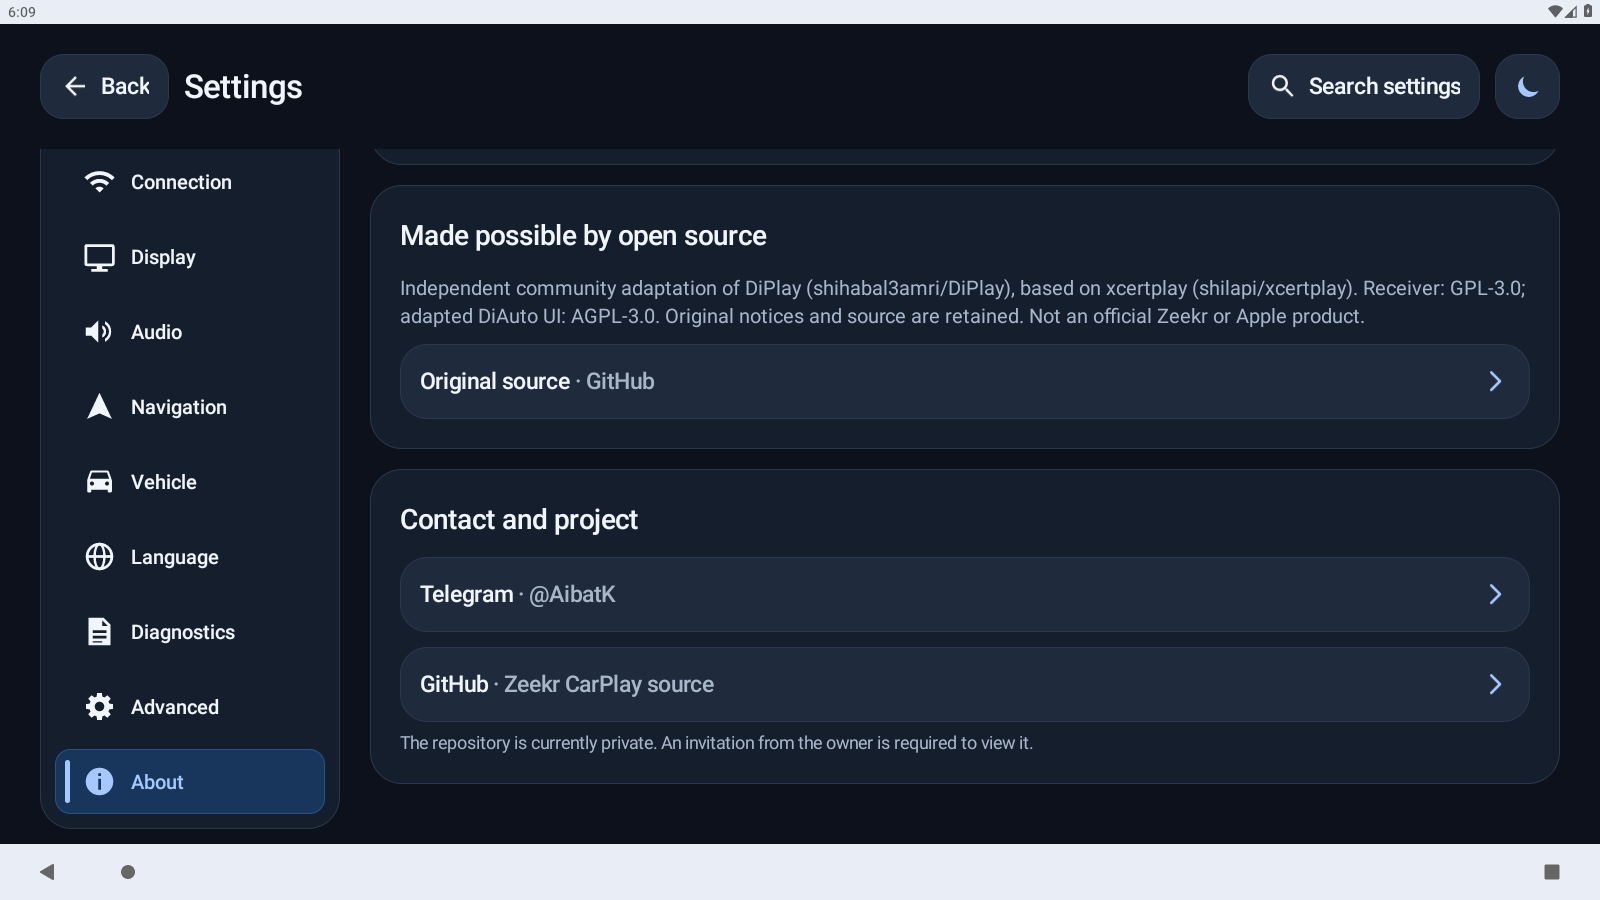
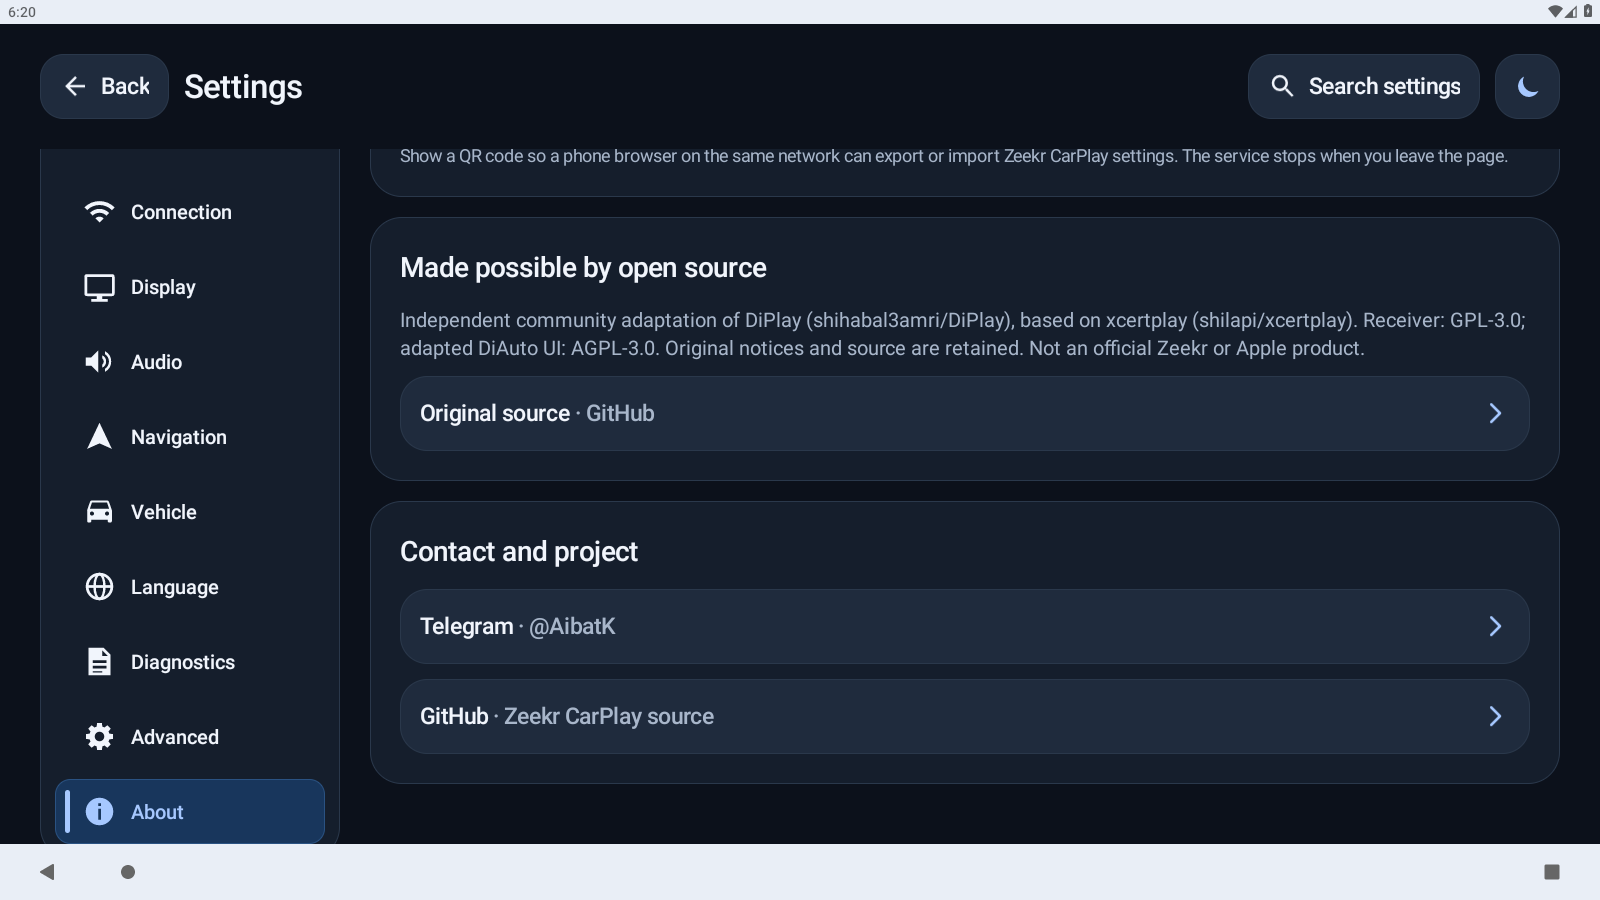
Remove repository access hint and clarify independent community development

diff --git a/common/src/main/java/com/shilapi/xcertplay/DiPlayActivity.kt b/common/src/main/java/com/shilapi/xcertplay/DiPlayActivity.kt
@@ -2548,7 +2548,6 @@ class DiPlayActivity : ComponentActivity(), AppAppearanceOwner {
             card.addView(button(getString(R.string.zkr_project_github), false) {
                 openSystem(Intent(Intent.ACTION_VIEW, Uri.parse("https://github.com/KrykByte/zeekr-carplay")))
             }, matchButton(12, 60))
-            card.addView(label(getString(R.string.zkr_project_github_hint), 14, MUTED))
         }
     }
 

diff --git a/README.md b/README.md
@@ -2,7 +2,7 @@
 
 **Русский** · [English](README.en.md)
 
-CarPlay для Android-магнитолы Zeekr. Актуальная версия — **Final Alpha 03**, пакет `com.openzeekr.carplay`.
+CarPlay для Android-магнитолы Zeekr. Проект с открытым исходным кодом. Актуальная версия — **Final Alpha 03**, пакет `com.openzeekr.carplay`.
 
 ## Скачать и установить
 
@@ -13,7 +13,7 @@ CarPlay для Android-магнитолы Zeekr. Актуальная верси
 3. Выберите русский или английский язык и пройдите мастер настройки.
 4. Для проверенного автомобиля выберите **беспроводное подключение → Wi-Fi Direct**, затем **звук через Bluetooth автомобиля**. Оставьте iPhone сопряжённым со штатным Bluetooth и выберите Bluetooth-музыку в автомобиле.
 
-Для установки достаточно APK: отдельно импортировать сертификаты и ключи не нужно. Репозиторий пока приватный — скачивание доступно владельцу и приглашённым пользователям после входа в GitHub.
+Для установки достаточно APK: отдельно импортировать сертификаты и ключи не нужно.
 
 ## Совместимость
 
@@ -21,7 +21,9 @@ CarPlay для Android-магнитолы Zeekr. Актуальная верси
 
 **На других моделях, годах выпуска и прошивках работа неизвестна.** Звонки, Siri и навигационные подсказки требуют отдельной проверки. Каждая новая сборка/конфигурация также требует проверки на автомобиле.
 
-Кому интересно — изучайте исходники, тестируйте и предлагайте улучшения. В Issues указывайте модель/год автомобиля, прошивку/Android, iPhone/iOS, режим подключения и звука. Удаляйте личные данные из логов перед отправкой. Пока проект приватный, для участия требуется приглашение.
+Вы можете скачивать APK и исходники, изучать код, изменять приложение и развивать собственные версии с соблюдением лицензий компонентов. Проверку совместимости с другими автомобилями и доработки участники выполняют самостоятельно.
+
+**Автор не может проверять приложение на других автомобилях и не предоставляет индивидуальную поддержку. Пожалуйста, не присылайте автору логи, сборки или запросы на проверку других машин.**
 
 ## Системные панели и полноэкранный режим
 
@@ -54,7 +56,7 @@ CarPlay для Android-магнитолы Zeekr. Актуальная верси
 
 Документация: [сборка](docs/BUILD.md), [Zeekr CarPlay](docs/ZEEKR-CARPLAY.md), [оригинальный README DiPlay](docs/DIPLAY-README.md), [README xcertplay](docs/UPSTREAM-README.md).
 
-Проверки: **3543 теста успешно, один пропущен**, lint и обязательные сборки завершились успешно. Исходники по умолчанию не содержат runtime-сертификатов и ключей CarPlay. Для самостоятельной полноценной сборки нужны отдельно подготовленные runtime-данные; владелец сохранил их отдельным вложением к приватному релизу. Ключ подписи Android не загружается.
+Проверки: **3543 теста успешно, один пропущен**, lint и обязательные сборки завершились успешно. Исходники по умолчанию не содержат runtime-сертификатов и ключей CarPlay. Для самостоятельной полноценной сборки нужны отдельно подготовленные runtime-данные; они сохранены отдельным вложением к релизу. Ключ подписи Android не загружается.
 
 ## Лицензии
 
@@ -62,4 +64,4 @@ CarPlay для Android-магнитолы Zeekr. Актуальная верси
 
 Независимый проект сообщества, не официальный продукт Zeekr или Apple.
 
-Обратная связь: **[Telegram @AibatK](https://t.me/AibatK)**.
+Telegram автора адаптации: **[@AibatK](https://t.me/AibatK)**.

diff --git a/README.en.md b/README.en.md
@@ -2,7 +2,7 @@
 
 [Русский](README.md) · **English**
 
-A CarPlay receiver for the Zeekr Android head unit. Current version: **Final Alpha 03**, package `com.openzeekr.carplay`.
+A CarPlay receiver for the Zeekr Android head unit. An open-source project. Current version: **Final Alpha 03**, package `com.openzeekr.carplay`.
 
 ## Download and install
 
@@ -13,7 +13,7 @@ A CarPlay receiver for the Zeekr Android head unit. Current version: **Final Alp
 3. Choose Russian or English and complete the setup guide.
 4. For the tested vehicle, select **Wireless → Wi-Fi Direct**, then **Car Bluetooth audio**. Keep the iPhone paired with the factory Bluetooth system and select Bluetooth music in the car.
 
-The APK is sufficient for installation; no separate certificate/key import is needed. This repository is currently private: downloads require a signed-in owner or invited user.
+The APK is sufficient for installation; no separate certificate/key import is needed.
 
 ## Compatibility
 
@@ -21,7 +21,9 @@ Owner-tested on a **Chinese pre-facelift Zeekr 001, model year 2023, Zeekr OS 5.
 
 **Compatibility with other models, model years and firmware versions is unknown.** Calls, Siri and navigation prompts require separate testing. Each new build/device configuration also requires validation on the car.
 
-Source review, testing and improvements are welcome. Include vehicle/year, firmware/Android, iPhone/iOS, connection and audio modes in Issues. Remove personal information from logs before sharing. Participation requires an invitation while the project is private.
+You may download the APK and source, study the code, modify the application and develop your own versions under the component licenses. Participants test compatibility with other vehicles and implement improvements independently.
+
+**The maintainer cannot test other vehicles and does not provide individual support. Please do not send the maintainer logs, builds or requests to test other cars.**
 
 ## Factory bars and fullscreen mode
 
@@ -54,7 +56,7 @@ Application screens captured on an Android emulator. They do not show Zeekr's pr
 
 Documentation: [build instructions](docs/BUILD.md), [Zeekr CarPlay](docs/ZEEKR-CARPLAY.md), [original DiPlay README](docs/DIPLAY-README.md), [xcertplay README](docs/UPSTREAM-README.md).
 
-Validation: **3,543 tests passed, one skipped**; required lint and application builds succeeded. Source builds contain no CarPlay runtime certificate/key by default and need separately provisioned runtime inputs for standalone authentication. The owner stored those inputs in a separate private release attachment. The Android APK-signing key is not uploaded.
+Validation: **3,543 tests passed, one skipped**; required lint and application builds succeeded. Source builds contain no CarPlay runtime certificate/key by default and need separately provisioned runtime inputs for standalone authentication. Those inputs are stored in a separate release attachment. The Android APK-signing key is not uploaded.
 
 ## Licenses
 
@@ -62,4 +64,4 @@ Validation: **3,543 tests passed, one skipped**; required lint and application b
 
 Independent community software, not an official Zeekr or Apple product.
 
-Contact: **[Telegram @AibatK](https://t.me/AibatK)**.
+Adaptation maintainer: **[Telegram @AibatK](https://t.me/AibatK)**.

diff --git a/docs/ZEEKR-CARPLAY.md b/docs/ZEEKR-CARPLAY.md
@@ -1,6 +1,6 @@
 # Zeekr CarPlay — Final Alpha 03
 
-Package `com.openzeekr.carplay`, version code 44. Update an existing installation with this package in place to preserve settings.
+Package `com.openzeekr.carplay`, version code 45. Update an existing installation with this package in place to preserve settings.
 
 See [README](../README.md) / [English](../README.en.md) for installation, tested configuration, fullscreen controls and screenshots. Source base: DiPlay commit `615b32ce0b40cd0b99ce94ba23a512001553684f`.
 
@@ -10,7 +10,7 @@ The owner-tested configuration is a Chinese pre-facelift Zeekr 001 (2023), OS 5.
 
 Overview and Display share saved bar-visibility values. Fresh installations show bars by default and existing choices are preserved. Hiding is requested through Android window APIs; the firmware-owned climate panel may remain visible. Bar appearance follows the Android system theme independently of app and CarPlay themes. No global car-service settings are modified.
 
-Build using [BUILD.md](BUILD.md), JDK 25, Android SDK 37 and NDK 28.2.13676358. Standalone builds require `DIPLAY_AUTH_ASSETS_DIR` pointing outside the source tree to `offline-mfi/certificate.p7b` and `offline-mfi/identity.pk8`. The owner supplied those existing runtime files as a private release attachment, outside Git history. Android signing keys remain local. Runtime acceptance and distribution rights are separate from source-code licensing.
+Build using [BUILD.md](BUILD.md), JDK 25, Android SDK 37 and NDK 28.2.13676358. Standalone builds require `DIPLAY_AUTH_ASSETS_DIR` pointing outside the source tree to `offline-mfi/certificate.p7b` and `offline-mfi/identity.pk8`. The owner supplied those existing runtime files as a release attachment, outside Git history. Android signing keys remain local. Runtime acceptance and distribution rights are separate from source-code licensing.
 
 Run checks from [AGENTS.md](../AGENTS.md). Automated tests verify Android window properties and app UI; emulators do not reproduce Zeekr's proprietary SystemUI or factory Bluetooth hardware.
 
